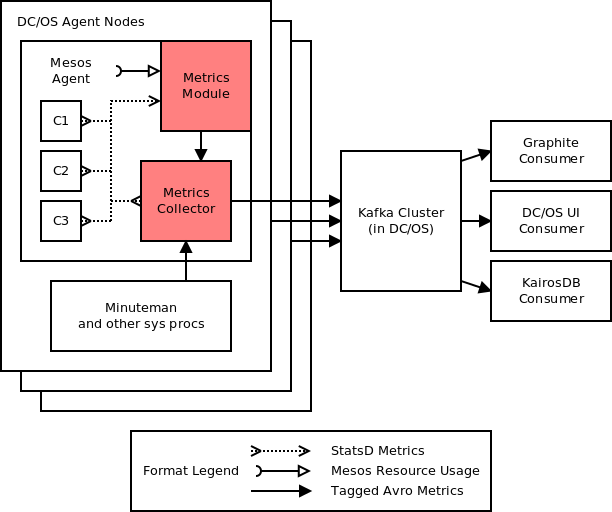
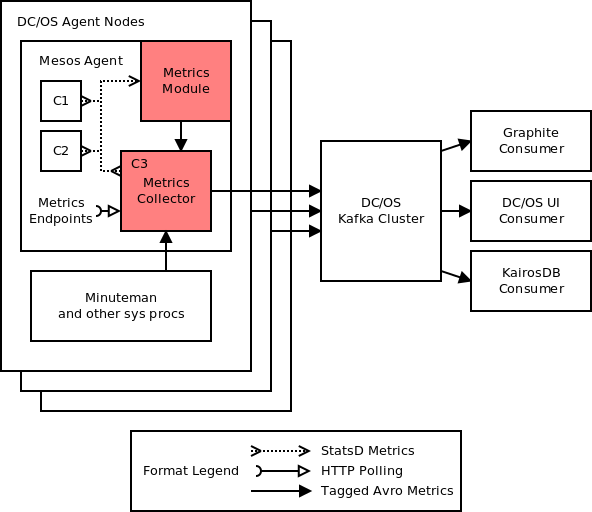
Update arch diagram: Collector grabs resource stats

diff --git a/README.md b/README.md
@@ -8,9 +8,9 @@ Routing of metrics from DC/OS.
 
 First, get a 1.8 EE cluster. Then install the following:
 
-1. **Kafka**: `dcos package install kafka` or install via the Universe UI -- stock config is fine to begin with
+1. [**Kafka**](http://github.com/mesosphere/kafka-private/README.md): `dcos package install kafka` or install via the Universe UI -- stock settings are fine to start with
 2. [**Metrics Collector** on every node](collector/README.md#deployment-to-a-cluster): use provided marathon json
-3. One or more [**Metrics Consumers**](consumer/): see example marathon jsons for each consumer type, edit outputs as needed before launching
+3. One or more [**Metrics Consumers**](consumer/): see example marathon jsons for each consumer type, edit output settings as needed before launching
 
 ## Audiences
 
